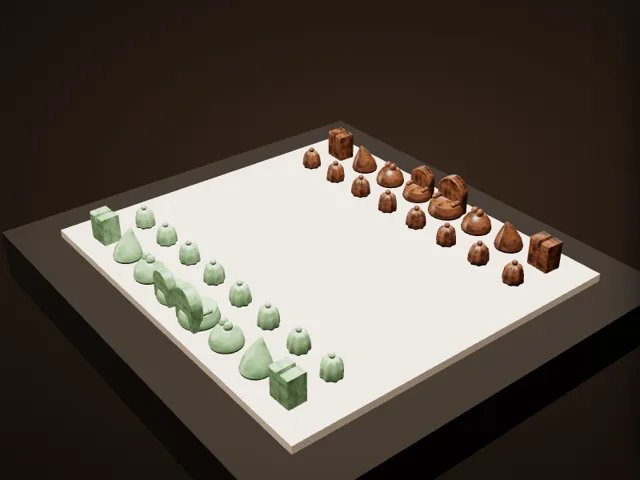
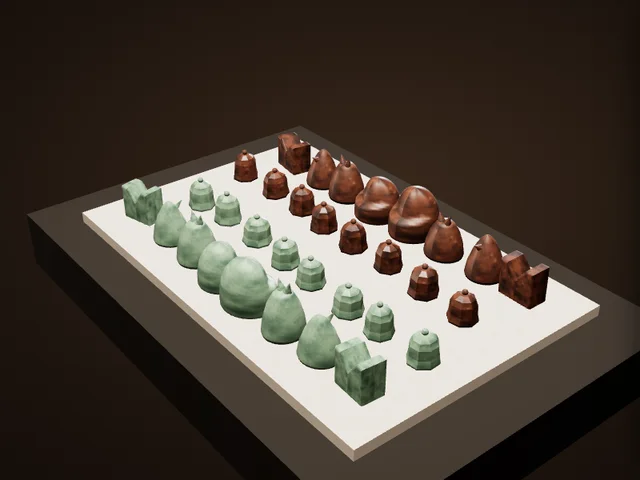
博物館：ニーシャープールの駒の形・色・並べ方をメトロポリタン美術館の写真に合わせ直し
Claude-Session: https://claude.ai/code/session_01EiWRAZTxRF5M5nk5vdR2jJ

diff --git a/atlas/museum/ex/nishapur.js b/atlas/museum/ex/nishapur.js
@@ -2,7 +2,8 @@
    Stonepaste, molded and finished by hand, glazed: 17 pieces turquoise, 15 manganese (the Met); attributed to Nishapur, Iran,
    12th century. Abstract shatranj forms (the Met): shah = a throne, firzan (vizier) = a smaller throne, elephant = two tusk-like
    protrusions, horse = a triangular knob for the head, chariot = rectangular with a wedge at the top, pawn = a faceted hemisphere
-   with a knob. Sizes: king H. 5.1 cm, diam. 5.4; pawn H. 3.3, diam. 2.9 (the Met). The other pieces' sizes, the exact profiles and
+   with a knob. 2026-11-22: the forms redrawn after the Met's photograph of the whole set (domes with a ledge for shah and firzan,
+   two-pointed elephants, beaked horses, seat-shaped chariots, eight-sided pawns; every piece a little different). Sizes: king H. 5.1 cm, diam. 5.4; pawn H. 3.3, diam. 2.9 (the Met). The other pieces' sizes, the exact profiles and
    the glaze effects are estimates (colours checked 2026-11-21 against photographs of the set: the light pieces a soft sea-green, the dark a streaky amber-brown; pawns as ribbed bells, horses as forward-leaning cones); the 32 are set out in the opening position of shatranj for display (no board survives with them). */
 (function () {
   'use strict';
@@ -17,53 +18,51 @@
         g.putImageData(img, 0, 0);
         if (crackle) { g.strokeStyle = 'rgba(40,70,44,.16)'; g.lineWidth = .8; let s = seed; const r = () => ((s = (s * 16807) % 2147483647) / 2147483647);
           for (let q = 0; q < 140; q++) { let x = r() * w, y = r() * h; g.beginPath(); g.moveTo(x, y); for (let k = 0; k < 4; k++) { x += (r() - .5) * 40; y += (r() - .5) * 40; g.lineTo(x, y); } g.stroke(); } }
+        { let s3 = seed * 3; const r3 = () => ((s3 = (s3 * 16807) % 2147483647) / 2147483647); for (let q = 0; q < 260; q++) { g.fillStyle = `rgba(30,22,16,${.1 + r3() * .25})`; g.beginPath(); g.arc(r3() * w, r3() * h, .6 + r3() * 2.2, 0, 6.29); g.fill(); } }   // pitting and dirt in the glaze
         // the white body showing through where the glaze ran thin, at the edges (a few soft pale spots)
         let s2 = seed * 7; const r2 = () => ((s2 = (s2 * 16807) % 2147483647) / 2147483647);
         for (let q = 0; q < 10; q++) { const gr = g.createRadialGradient(0, 0, 0, 0, 0, 14); g.save(); g.translate(r2() * w, r2() * h * .5); gr.addColorStop(0, `rgba(230,236,226,${pale})`); gr.addColorStop(1, 'rgba(230,236,226,0)'); g.fillStyle = gr; g.fillRect(-14, -14, 28, 28); g.restore(); }
       });
       // (after the Met's photographs: the 'turquoise' has aged to a soft sea-green, the manganese to a streaky amber-brown; a satin sheen)
-      const TQ = K.mat({ map: glazeT([150, 180, 142], [100, 136, 98], true, 21), color: '#ffffff', roughness: .38, clearcoat: .55, clearcoatRoughness: .35 });
-      const MN = K.mat({ map: glazeT([124, 78, 46], [50, 26, 16], false, 37, .12), color: '#ffffff', roughness: .38, clearcoat: .55, clearcoatRoughness: .35 });
+      const TQ = K.mat({ map: glazeT([126, 150, 124], [66, 92, 76], true, 21), color: '#ffffff', roughness: .5, clearcoat: .35, clearcoatRoughness: .45 });
+      const MN = K.mat({ map: glazeT([104, 58, 36], [34, 18, 13], false, 37, .2), color: '#ffffff', roughness: .5, clearcoat: .35, clearcoatRoughness: .45 });
       // extruded forms carry UVs in centimetres: give them their own copies of the glazes, the texture spread over ~4 cm
       const perCm = (m) => { const c = m.clone(); c.map = m.map.clone(); c.map.wrapS = c.map.wrapT = TT.RepeatWrapping; c.map.repeat.set(.24, .24); c.map.needsUpdate = true; return c; };
       const TQx = perCm(TQ), MNx = perCm(MN), X2 = m => m === TQ ? TQx : MNx;
       const add = (p, geo, m, x = 0, y = 0, z = 0) => { const o = new TT.Mesh(geo, m); o.position.set(x, y, z); o.castShadow = o.receiveShadow = true; p.add(o); return o; };
       const lathe = (pts, seg = 28) => new TT.LatheGeometry(pts.map(([r, y]) => new TT.Vector2(r, y)), seg);
       const ext = (S, depth, bev = .18) => { const g = new TT.ExtrudeGeometry(S, { depth, bevelEnabled: true, bevelThickness: bev, bevelSize: bev, bevelSegments: 3, curveSegments: 14 }); g.translate(0, 0, -depth / 2); return g; };
-      // ---- the six forms (front = +z)
-      const throne = (m, s) => {   // shah / firzan: a round seat with a high back (a throne), the back rounded at the top
-        const p = new TT.Group();
-        add(p, lathe([[0, 0], [2.6 * s, 0], [2.7 * s, .3 * s], [2.55 * s, 1.0 * s], [2.35 * s, 1.75 * s], [2.2 * s, 1.95 * s], [0, 2.0 * s]], 32), m);
-        const S = new TT.Shape(); const w = 2.1 * s, t = 5.1 * s; S.moveTo(-w, 0); S.lineTo(w, 0); S.lineTo(w, t - w * .9); S.absarc(0, t - w * .9, w, 0, Math.PI, false); S.closePath();
-        const b = add(p, ext(S, 1.25 * s, .2 * s), X2(m), 0, 0, -1.3 * s);
-        // the arms of the throne: two low rolls either side of the seat
-        [-1, 1].forEach(k => { const a = add(p, new TT.CapsuleGeometry(.42 * s, 1.6 * s, 6, 12), m, k * 1.85 * s, 2.15 * s, -.2 * s); a.rotation.x = Math.PI / 2; });
-        return p;
-      };
-      const dome = (m, r, h) => lathe([[0, 0], [r, 0], [r * 1.03, h * .12], [r * .92, h * .5], [r * .66, h * .82], [r * .3, h * .98], [0, h]], 30);
-      const elephant = (m) => { const p = new TT.Group(); add(p, dome(m, 2.15, 2.7), m);
-        [-1, 1].forEach(k => { const t = add(p, new TT.SphereGeometry(.62, 16, 12), m, k * .5, 2.75, .05); t.scale.set(.8, 1.15, 1); }); return p; };   // the top split into two low humps (the tusks)
-      const horse = (m) => { const p = new TT.Group();   // a tall cone rising to a point that leans forward (the head)
-        const c = add(p, lathe([[0, 0], [2.0, 0], [2.05, .3], [1.75, 1.4], [1.15, 2.6], [.55, 3.6], [.18, 4.2], [0, 4.3]], 30), m); c.geometry.translate(0, 0, 0);
-        const pos = c.geometry.attributes.position; for (let i = 0; i < pos.count; i++) { const y = pos.getY(i); pos.setZ(i, pos.getZ(i) + Math.pow(y / 4.3, 2) * .9); } c.geometry.computeVertexNormals(); return p; };
-      const rook = (m) => { const p = new TT.Group(); const S = new TT.Shape(); const w = 1.55, h = 3.9;
-        S.moveTo(-w, 0); S.lineTo(w, 0); S.lineTo(w, h); S.lineTo(.42, h); S.lineTo(0, h - 1.05); S.lineTo(-.42, h); S.lineTo(-w, h); S.closePath();
-        add(p, ext(S, 2.3, .22), X2(m)); return p; };
-      const pawn = (m) => { const p = new TT.Group();   // a ribbed bell (eight lobes) with a knob
-        const g = lathe([[0, 0], [1.35, 0], [1.4, .25], [1.32, 1.2], [1.15, 2.0], [.8, 2.5], [0, 2.6]], 48); const pos = g.attributes.position;
-        for (let i = 0; i < pos.count; i++) { const x = pos.getX(i), z = pos.getZ(i), a = Math.atan2(z, x), k = 1 + .07 * Math.cos(a * 8); pos.setX(i, x * k); pos.setZ(i, z * k); } g.computeVertexNormals(); add(p, g, m);
-        add(p, new TT.SphereGeometry(.4, 12, 8), m, 0, 2.6 + .4 * .6, 0); add(p, new TT.CylinderGeometry(.26, .32, .35, 10), m, 0, 2.6, 0); return p; };
-      // ---- set out as at the start of a game of shatranj: turquoise at the front, manganese behind
-      const SQ = 6.2, row = ['r', 'h', 'e', 'v', 'k', 'e', 'h', 'r'];
-      const make = (t, m) => t === 'k' ? throne(m, 1) : t === 'v' ? throne(m, .84) : t === 'e' ? elephant(m) : t === 'h' ? horse(m) : t === 'r' ? rook(m) : pawn(m);
+      // ---- the six forms (front = +z), after the Met's photograph of the whole set: hand-finished, no two alike
+      let sd = 1971; const rnd = () => ((sd = (sd * 16807) % 2147483647) / 2147483647);
+      const warp = (g, fn) => { const P = g.attributes.position; for (let i = 0; i < P.count; i++) { const v = fn(P.getX(i), P.getY(i), P.getZ(i)); P.setXYZ(i, v[0], v[1], v[2]); } g.computeVertexNormals(); return g; };
+      const domeP = (r, h) => { const pts = [[0, 0], [r * .98, 0]]; for (let k = 1; k <= 26; k++) { const t = k / 26, y = h * t, rr = r * Math.pow(Math.max(0, 1 - Math.pow(t, 2.6)), .5) * (1 + .02 * Math.sin(t * 3)); pts.push([rr, y]); } return pts; };
+      // shah / firzan: a heavy dome, the upper front cut back so that a rounded ledge runs across it (the seat of a throne)
+      const throne = (m, s) => { const p = new TT.Group(), r = 2.7 * s, h = 5.1 * s;
+        add(p, warp(lathe(domeP(r, h), 40), (x, y, z) => { const a = Math.atan2(z, x), front = Math.max(0, Math.sin(a)), up = Math.min(1, Math.max(0, (y - h * (.5 - .1 * front)) / (h * .06))), k = 1 - .26 * up * Math.min(1, front * 2.6); return [x * k, y, z * k]; }), m); return p; };
+      // elephant: a tall dome whose top is pinched into two little points (the tusks)
+      const elephant = (m) => { const p = new TT.Group(); add(p, lathe([[0, 0], [2.0, 0], [2.06, .3], [1.9, 1.5], [1.5, 2.8], [1.0, 3.7], [.72, 4.0], [0, 4.05]], 32), m);
+        [-1, 1].forEach(k => { const t = add(p, new TT.ConeGeometry(.5, 1.3, 12), m, k * .5, 4.35, .2); t.rotation.z = -k * .3; }); return p; };
+      // horse: a cone, a pointed beak standing out of its upper front (the head)
+      const horse = (m) => { const p = new TT.Group(); add(p, lathe([[0, 0], [1.95, 0], [2.02, .3], [1.8, 1.5], [1.3, 2.9], [.75, 3.9], [.3, 4.4], [0, 4.5]], 32), m);
+        const b = add(p, new TT.ConeGeometry(.7, 1.9, 4), m, 0, 3.5, 1.05); b.rotation.x = 1.0; b.scale.set(.8, 1, 1); return p; };
+      // chariot: a block with a wedge cut out of its top (the Met; the colour photographs)
+      const rook = (m) => { const p = new TT.Group(), S = new TT.Shape(), w = 1.7, h = 3.3; S.moveTo(-w, 0); S.lineTo(w, 0); S.lineTo(w, h); S.lineTo(w - .55, h); S.lineTo(0, h - 1.35); S.lineTo(-w + .55, h); S.lineTo(-w, h); S.closePath();
+        add(p, ext(S, 2.0, .22), X2(m)); return p; };
+      // pawn: an eight-sided dome spreading to its foot, a small knob on top
+      const pawn = (m) => { const p = new TT.Group(); let g = lathe([[0, 0], [1.5, 0], [1.52, .2], [1.36, .9], [1.3, 1.9], [1.05, 2.5], [.5, 2.85], [0, 2.9]], 8); g = g.toNonIndexed(); g.computeVertexNormals(); add(p, g, m);
+        add(p, new TT.SphereGeometry(.3, 10, 8), m, 0, 3.05, 0); return p; };
+      // ---- set out as in the Met's photograph: the two colours facing each other in their opening rows, on a plain ground
+      const SQ = 5.0, row = ['r', 'h', 'e', 'v', 'k', 'e', 'h', 'r'];
+      const make = (t, m) => t === 'k' ? throne(m, 1) : t === 'v' ? throne(m, .9) : t === 'e' ? elephant(m) : t === 'h' ? horse(m) : t === 'r' ? rook(m) : pawn(m);
+      const put = (o, x, z, ry) => { o.position.set(x + (rnd() - .5) * .9, 0, z + (rnd() - .5) * .9); o.rotation.set((rnd() - .5) * .05, ry + (rnd() - .5) * .5, (rnd() - .5) * .05); o.scale.set(.94 + rnd() * .12, .93 + rnd() * .14, .94 + rnd() * .12); G.add(o); };
       [[TQ, 1], [MN, -1]].forEach(([m, side]) => {
-        row.forEach((t, i) => { const o = make(t, m); o.position.set((i - 3.5) * SQ, 0, side * 3.5 * SQ); o.rotation.y = side > 0 ? Math.PI : 0; o.rotation.y += (Math.sin(i * 7.1 + side) * .06); G.add(o); });
-        for (let i = 0; i < 8; i++) { const o = make('p', m); o.position.set((i - 3.5) * SQ, 0, side * 2.5 * SQ); o.rotation.y = i * .4; G.add(o); }
+        row.forEach((t, i) => put(make(t, m), (i - 3.5) * SQ, side * 2.05 * SQ, side > 0 ? Math.PI : 0));
+        for (let i = 0; i < 8; i++) put(make('p', m), (i - 3.5) * SQ + side * 1.2, side * .75 * SQ, i * .4);
       });
       // the case floor: a pale, unmarked linen (the set's own board is lost)
-      const linT = K.tex(256, 256, (g, w, h) => { const n = K.noise(3), img = g.createImageData(w, h), d = img.data; for (let y = 0; y < h; y++) for (let x = 0; x < w; x++) { const wv = (Math.sin(x * 1.7) * .5 + .5) * (Math.sin(y * 1.7 + 1) * .5 + .5), k = .86 + wv * .08 + (n(x / 30, y / 4) - .5) * .1, i = (y * w + x) * 4; d[i] = 228 * k; d[i + 1] = 214 * k; d[i + 2] = 200 * k; d[i + 3] = 255; } g.putImageData(img, 0, 0); }, { rep: [6, 6] });
+      const linT = K.tex(256, 256, (g, w, h) => { const n = K.noise(3), img = g.createImageData(w, h), d = img.data; for (let y = 0; y < h; y++) for (let x = 0; x < w; x++) { const wv = (Math.sin(x * 1.7) * .5 + .5) * (Math.sin(y * 1.7 + 1) * .5 + .5), k = .86 + wv * .08 + (n(x / 30, y / 4) - .5) * .1, i = (y * w + x) * 4; d[i] = 214 * k; d[i + 1] = 200 * k; d[i + 2] = 186 * k; d[i + 3] = 255; } g.putImageData(img, 0, 0); }, { rep: [6, 6] });
       const lin = K.mat({ map: linT, color: '#ffffff', roughness: .95, sheen: .3, sheenRoughness: .8, sheenColor: K.lin('#fff6e4') });
-      const base = new TT.Mesh(new TT.BoxGeometry(56, 1.2, 52), lin); base.position.y = -.6; base.receiveShadow = true; G.add(base);
+      const base = new TT.Mesh(new TT.BoxGeometry(46, 1.2, 30), lin); base.position.y = -.6; base.receiveShadow = true; G.add(base);
       return G;
     },
   };

diff --git a/atlas/museum/gallery-ja.js b/atlas/museum/gallery-ja.js
@@ -107,14 +107,14 @@
       museum: 'メトロポリタン美術館（ニューヨーク）', no: '1971.193a–ff', mat: 'ストーンペースト（石英を混ぜた白い焼き物）、型で成形し手で仕上げ、釉薬がけ', size: '王：高さ5.1cm・直径5.4cm／歩兵：高さ3.3cm・直径2.9cm',
       p: ['世界でも古い、ほぼそろったチェスセットのひとつです。17個はセルジューク朝のイランでよく使われたトルコ石色の釉薬、15個はマンガン釉（黒に近い紫）で、色で敵味方を分けます。',
         '駒は人や動物の姿ではなく、ほとんど抽象的な形です。王は玉座、ワズィール（今のクイーン）は小さな玉座、象（今のビショップ）は牙のような2本の突起、馬は頭を表す三角のでっぱり、戦車（今のルーク）は上にくさび形の切れこみのある四角、歩兵は小さなつまみのついた多面体の半球。こうした抽象的な形は、イスラム世界で見つかったいちばん古い時代のチェス駒にもすでに見られ、アラブのチェス「シャトランジ」の駒の典型です。'],
-      spots: [['王（シャー）', 'いちばん大きい駒。背もたれのついた玉座の形で王を表します。高さ5.1cm。'],
+      spots: [['王（シャー）', 'いちばん大きい駒。前の上半分を削って段をつけた丸い山の形で、玉座を表します。高さ5.1cm。'],
         ['ワズィール', '王の相談役。王より小さな玉座の形です。ヨーロッパでは、これがのちにクイーンになりました。'],
         ['象', '牙のような2本の突起。シャトランジの象は斜めに2マス跳ぶ駒で、今のビショップの祖先です。'],
         ['馬', '頭を表す三角のでっぱり1つで馬を表します。今のナイトと同じ動き。'],
         ['戦車（ルフ）', '上にくさび形の切れこみが入った四角い駒。ペルシア語の「ルフ（戦車）」が、英語の「ルーク」の語源です。'],
         ['歩兵', '多面体の半球に小さなつまみ。高さ3.3cm。'],
         ["マンガン釉の駒", "もう一方の軍はマンガン釉。黒に近い紫の釉薬ですが、展示の写真では赤茶色のむらのある色に見えます。"]],
-      model: "大きさと形は所蔵館の記録と写真に合わせました。並べ方は展示のための構成です。",
+      model: "大きさと形、並べ方は所蔵館の記録と写真に合わせました。釉薬の色むらと1個ずつの細かな違いは推定です。",
       src: [['メトロポリタン美術館「Chess Set」1971.193a–ff', 'https://metmuseum.org/art/collection/search/452204'], ['メトロポリタン美術館 教育資料（Image 37：ニーシャープールで似た歩兵が出土）', 'https://www.metmuseum.org/learn/educators/curriculum-resources/art-of-the-islamic-world/unit-six/chapter-one/featured-works-of-art/image-37']] },
     ottoman: { name: 'オスマン帝国のチェス・バックギャモン盤', alt: '鼈甲と螺鈿の折りたたみ盤', date: '1600〜1700年ごろ', where: 'トルコ（イスタンブール？）', found: 'オスマン帝国時代。1907年、ハーグの商会から博物館が購入',
       museum: 'ヴィクトリア＆アルバート博物館（ロンドン）', no: '861-1907', mat: '木、金箔の上の鼈甲（タイマイ）、螺鈿、骨、象牙、鯨のひげ、さまざまな木', size: '開いて56.5×56.3cm・閉じて厚さ5.5cm',

diff --git a/atlas/museum/gallery.js b/atlas/museum/gallery.js
@@ -10,7 +10,7 @@
    (a turn, a zoom, the slow turntable) and never while the window is in the background. */
 (function () {
   'use strict';
-  const V = 63;
+  const V = 64;
   /* ---------- the pieces: id, the game it belongs to, its scale (cm per model unit), the camera's start, the details ----------
      lock: { game, ach } → open after that many achievements of the game. src: the files the piece needs (besides ex/<id>.js) */
   const EX = [
@@ -27,7 +27,7 @@
       spots: [[-2.8, 4.6, -2.0], [2.6, 7.4, -2.4], [8.4, 9.0, -1.6], [-8.4, 5.5, .2], [-.2, 6.4, 5.9], [5.6, 2.6, 5.4], [-2.8, 4.0, -5.2]] },
     // (「シャルルマーニュのチェス駒」は取り下げ中：公開できる水準に届かないため 2026-11-22。モデル ex/charlemagne.js と解説文は残してある。戻すときは museum-spec.md を参照)
     { id: 'nishapur', game: 'chess', cm: 1, view: [.9, .55, .78],
-      spots: [[3.1, 5.0, 22.9], [-3.1, 4.2, 22.8], [-9.3, 3.4, 21.2], [-15.5, 3.6, 21.0], [-21.7, 3.9, 21.7], [-3.1, 2.4, 15.5], [3.1, 5.0, -22.9]] },
+      spots: [[2.5, 5.2, 10.25], [-2.5, 4.7, 10.25], [-7.5, 5.0, 10.25], [-12.5, 4.6, 10.25], [-17.5, 3.4, 10.25], [-1.3, 3.1, 3.75], [2.5, 5.2, -10.25]] },
     { id: 'ottoman', game: 'backgammon', cm: 1, flip: true, view: [0, .95, .82], lock: { game: 'backgammon', ach: 3 },
       spots: [[-21.5, 2.1, -15], [-14.1, 2.1, 0], [-27.6, 2.55, 12], [-8.2, 0, 2.7], [-2.7, 0, 8.1], [-24.9, 0, 0], [-24.9, 0, -24.8], [28.3, 1.0, 12]], side: [0, 0, 0, 1, 1, 1, 1, 1] },
     { id: 'kofukuji', game: 'shogi', cm: 1, view: [0, .95, .78], lock: { game: 'shogi', ach: 3 } },   // (spots: from the model's userData)

diff --git a/atlas/museum.js b/atlas/museum.js
@@ -32,7 +32,7 @@
   const ROOMS = [
     { id: 'map', ready: () => !!window.AtlasMap, render: (el, c) => AtlasMap.render(el, c) },
     { id: 'tree', src: ['museum/tree.js?v=3'], ready: () => !!window.AtlasTree, render: (el, c) => AtlasTree.render(el, c) },
-    { id: 'gallery', src: ['museum/gallery.js?v=63'], ready: () => !!window.AtlasGallery, render: (el, c) => AtlasGallery.render(el, c) },
+    { id: 'gallery', src: ['museum/gallery.js?v=64'], ready: () => !!window.AtlasGallery, render: (el, c) => AtlasGallery.render(el, c) },
   ];
   const KEY = 'atlas-museum-room';
   const esc = s => String(s == null ? '' : s).replace(/[&<>"]/g, c => ({ '&': '&amp;', '<': '&lt;', '>': '&gt;', '"': '&quot;' }[c]));

diff --git a/atlas/index.html b/atlas/index.html
@@ -2559,7 +2559,7 @@ window.AtlasRgdTimer = function (btn, ms, alive) {
 <link rel="stylesheet" href="worldmap.css?v=19">
 <link rel="stylesheet" href="museum.css?v=4">
 <script src="worldmap.js?v=40"></script>
-<script src="museum.js?v=64"></script>
+<script src="museum.js?v=65"></script>
 <script src="npc/npc.js?v=46"></script>
 <script src="avtalk.js?v=4"></script>
 <script>/* Page states as classes on <html> (2026-11-21) — html.cov-on: the 3D view / Historia / a sheet / a level sheet is open;

diff --git a/claude/museum-spec.md b/claude/museum-spec.md
@@ -82,6 +82,7 @@
   - オスマン盤の螺鈿（2026-11-22）：配置図は小さな孤立片と細い筋（写真由来のゴミ）を取り除いてから使う。作り物のひび線は入れない。螺鈿の色変化はシェーダーで行う（ottoman.js の face()：貝の部分だけ、貝ごとの向き（ノイズ画像）と盤から見た視線の向きから色相を決める。盤を回すと白緑→桃→薄紫と移る）。three.js 標準の iridescence はこの照明ではほとんど見えなかったのでやめた。配置図は「幅7px以上の貝の形」だけを使い、細い象牙線（途切れてゴミに見える）は写真から取らない。確認は、実際の展示画面で盤を回した連続画像で行う。
   - **創作しない（2026-11-22 ユーザー指摘）**：実物の写真にない形・顔・模様を足さない。写真で確かめられない部分は、無地・簡素にして「推定」と書く。
     - バリンダリーの盤：真上からの写真を測って作り直し（縁の幅2.3cm、1辺3区画、7×7の穴は約2.65cm間隔、割れ目は左から約3分の1を端から端まで、木目は頭の向き、片側は首の細い長い楕円の人の頭、反対側は無地の小さな丸いつまみ）。写真の座標系（頭が上）で組み、最後に回して頭を −x に。
+    - ニーシャープールの駒：メトロポリタン美術館の全体写真（白黒）と展示写真（カラー）に合わせ直し。王と宰相＝前に段のある丸い山、象＝頂が2つに尖る山、馬＝前にくちばし状の突起、戦車＝上にV字の切れこみの四角、歩兵＝八角の山につまみ。1個ずつ大きさと傾きを変え、両軍の列を写真のように近づけて並べる。
   - **スマホのテクスチャ上限**：スマホ（幅820px未満）では、読み込み時に長辺1536pxを超えるテクスチャを1536pxに縮める（gallery.js の small()。2048²は1枚22MB）。
   - **同じ平面に面を重ねない／透かしはアルファ・トゥ・カバレッジ**：隣り合う部品の面が同じ平面にあると遠目でちらつく（双六局の隅の脚。片方を少し短くする）。alphaTest の透かし（ダイスタワー）は `alphaToCoverage: true` を付けて縁を滑らかにする。
   - **重さの基準**：三角形は展示1点 8万以下（`atlas/tools/exrender.html` が `window.stats` に三角形数・メッシュ数・テクスチャの枚数とメモリを出す）。
